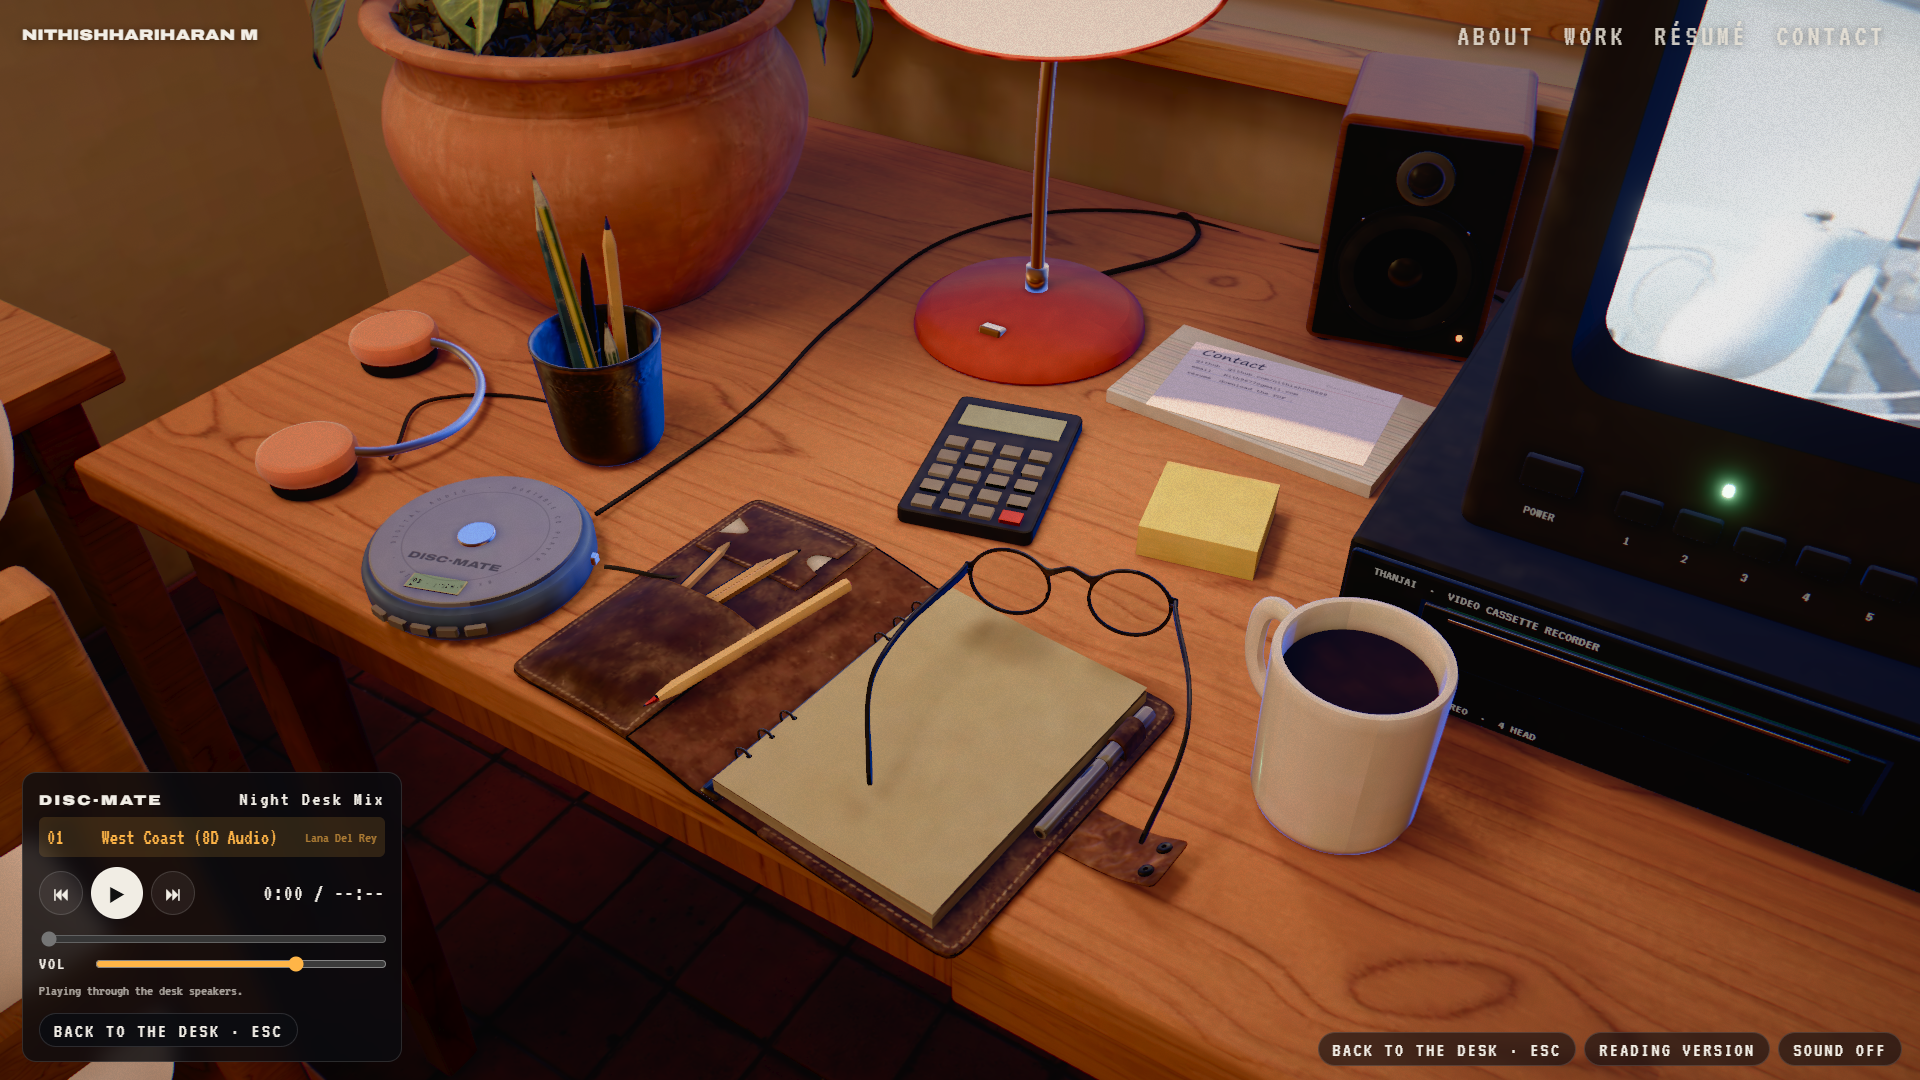
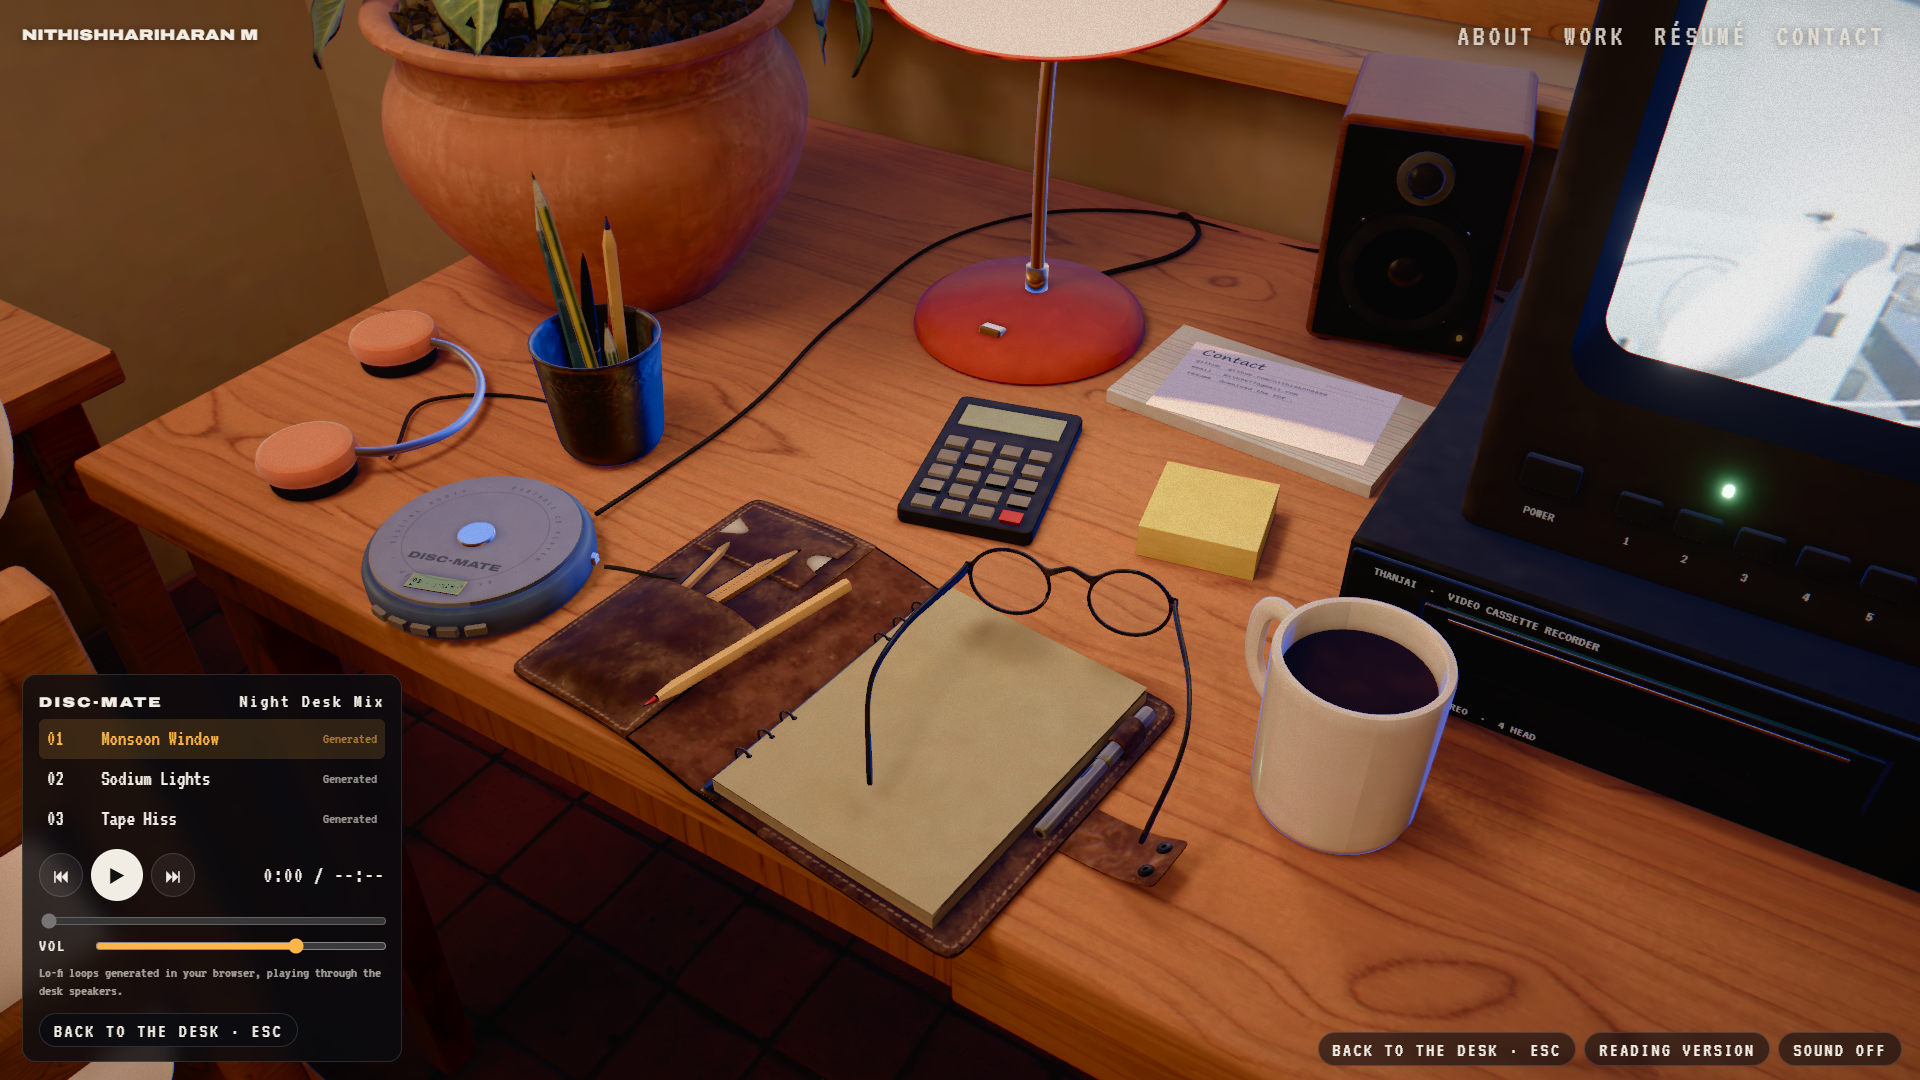
Music screenshots show the published loops; live link in the README

Changed region(s): [[0.0, 0.6111, 0.2188, 0.9472], [0.9375, 0.1833, 1.0, 0.3972], [0.9688, 0.0, 1.0, 0.0306]]

diff --git a/README.md b/README.md
@@ -1,5 +1,7 @@
 # Nithishhariharan M — the night desk
 
+**Live:** https://nithoroom-portfolio.vercel.app
+
 An interactive 3D portfolio: a wooden desk in front of a rainy night window in a
 fifth-floor room in Thanjavur, looking out at the floodlit Big Temple, gopurams,
 the palace domes and Tamil neon shop signs. Pick a tape from the stacks and it
